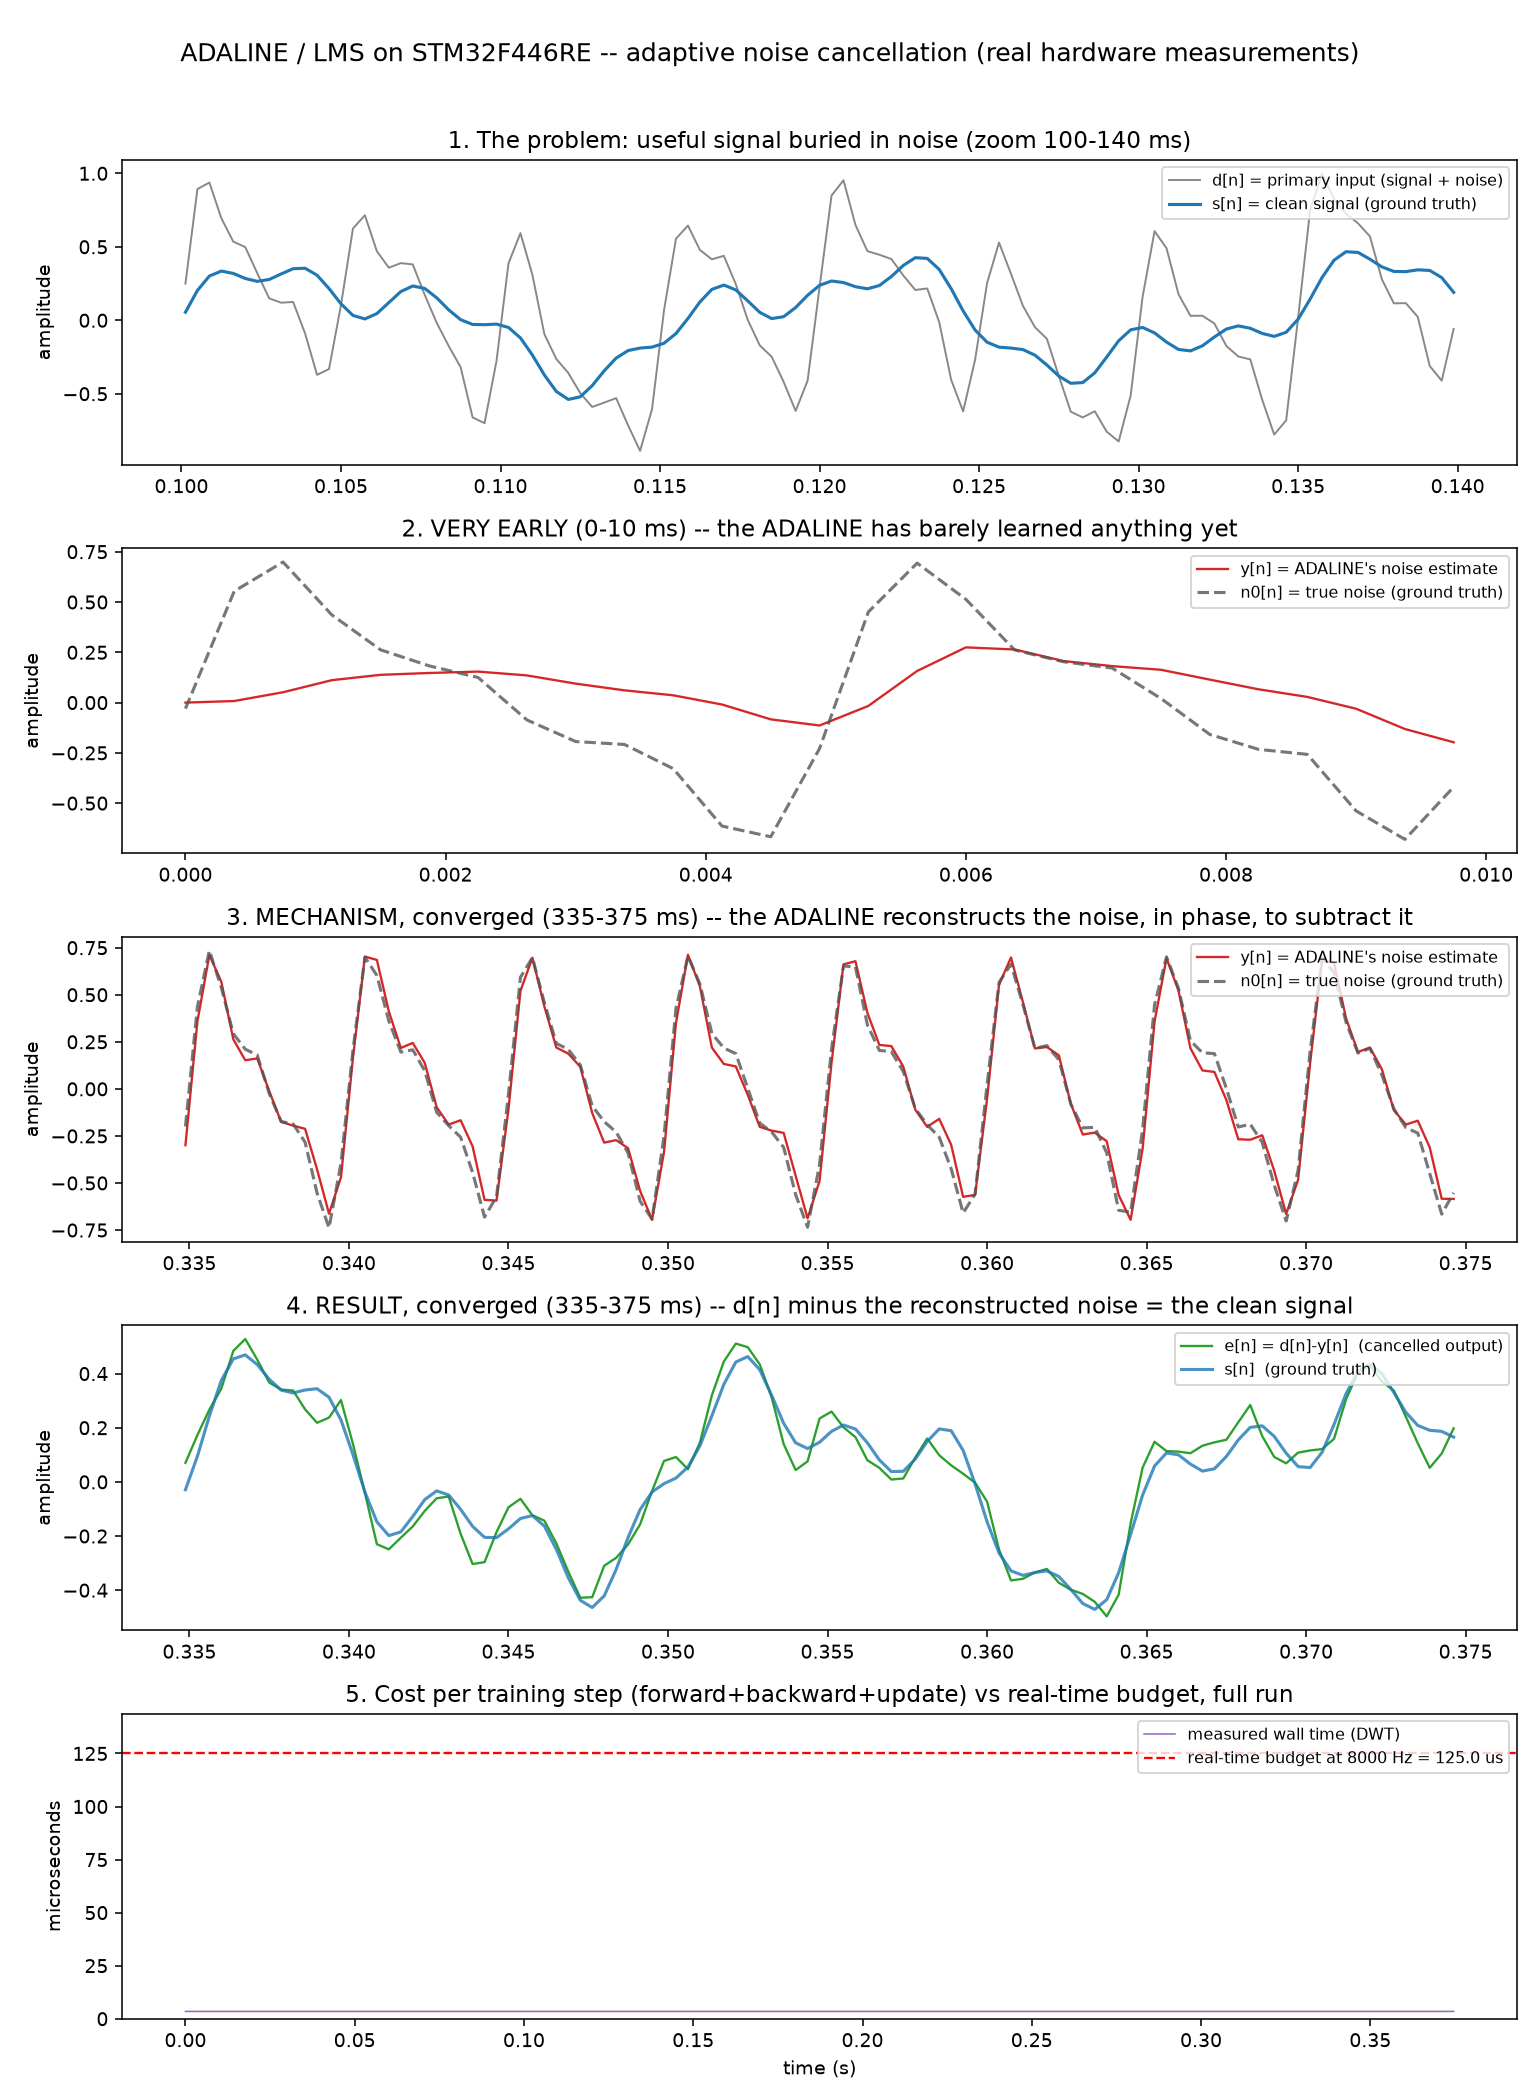
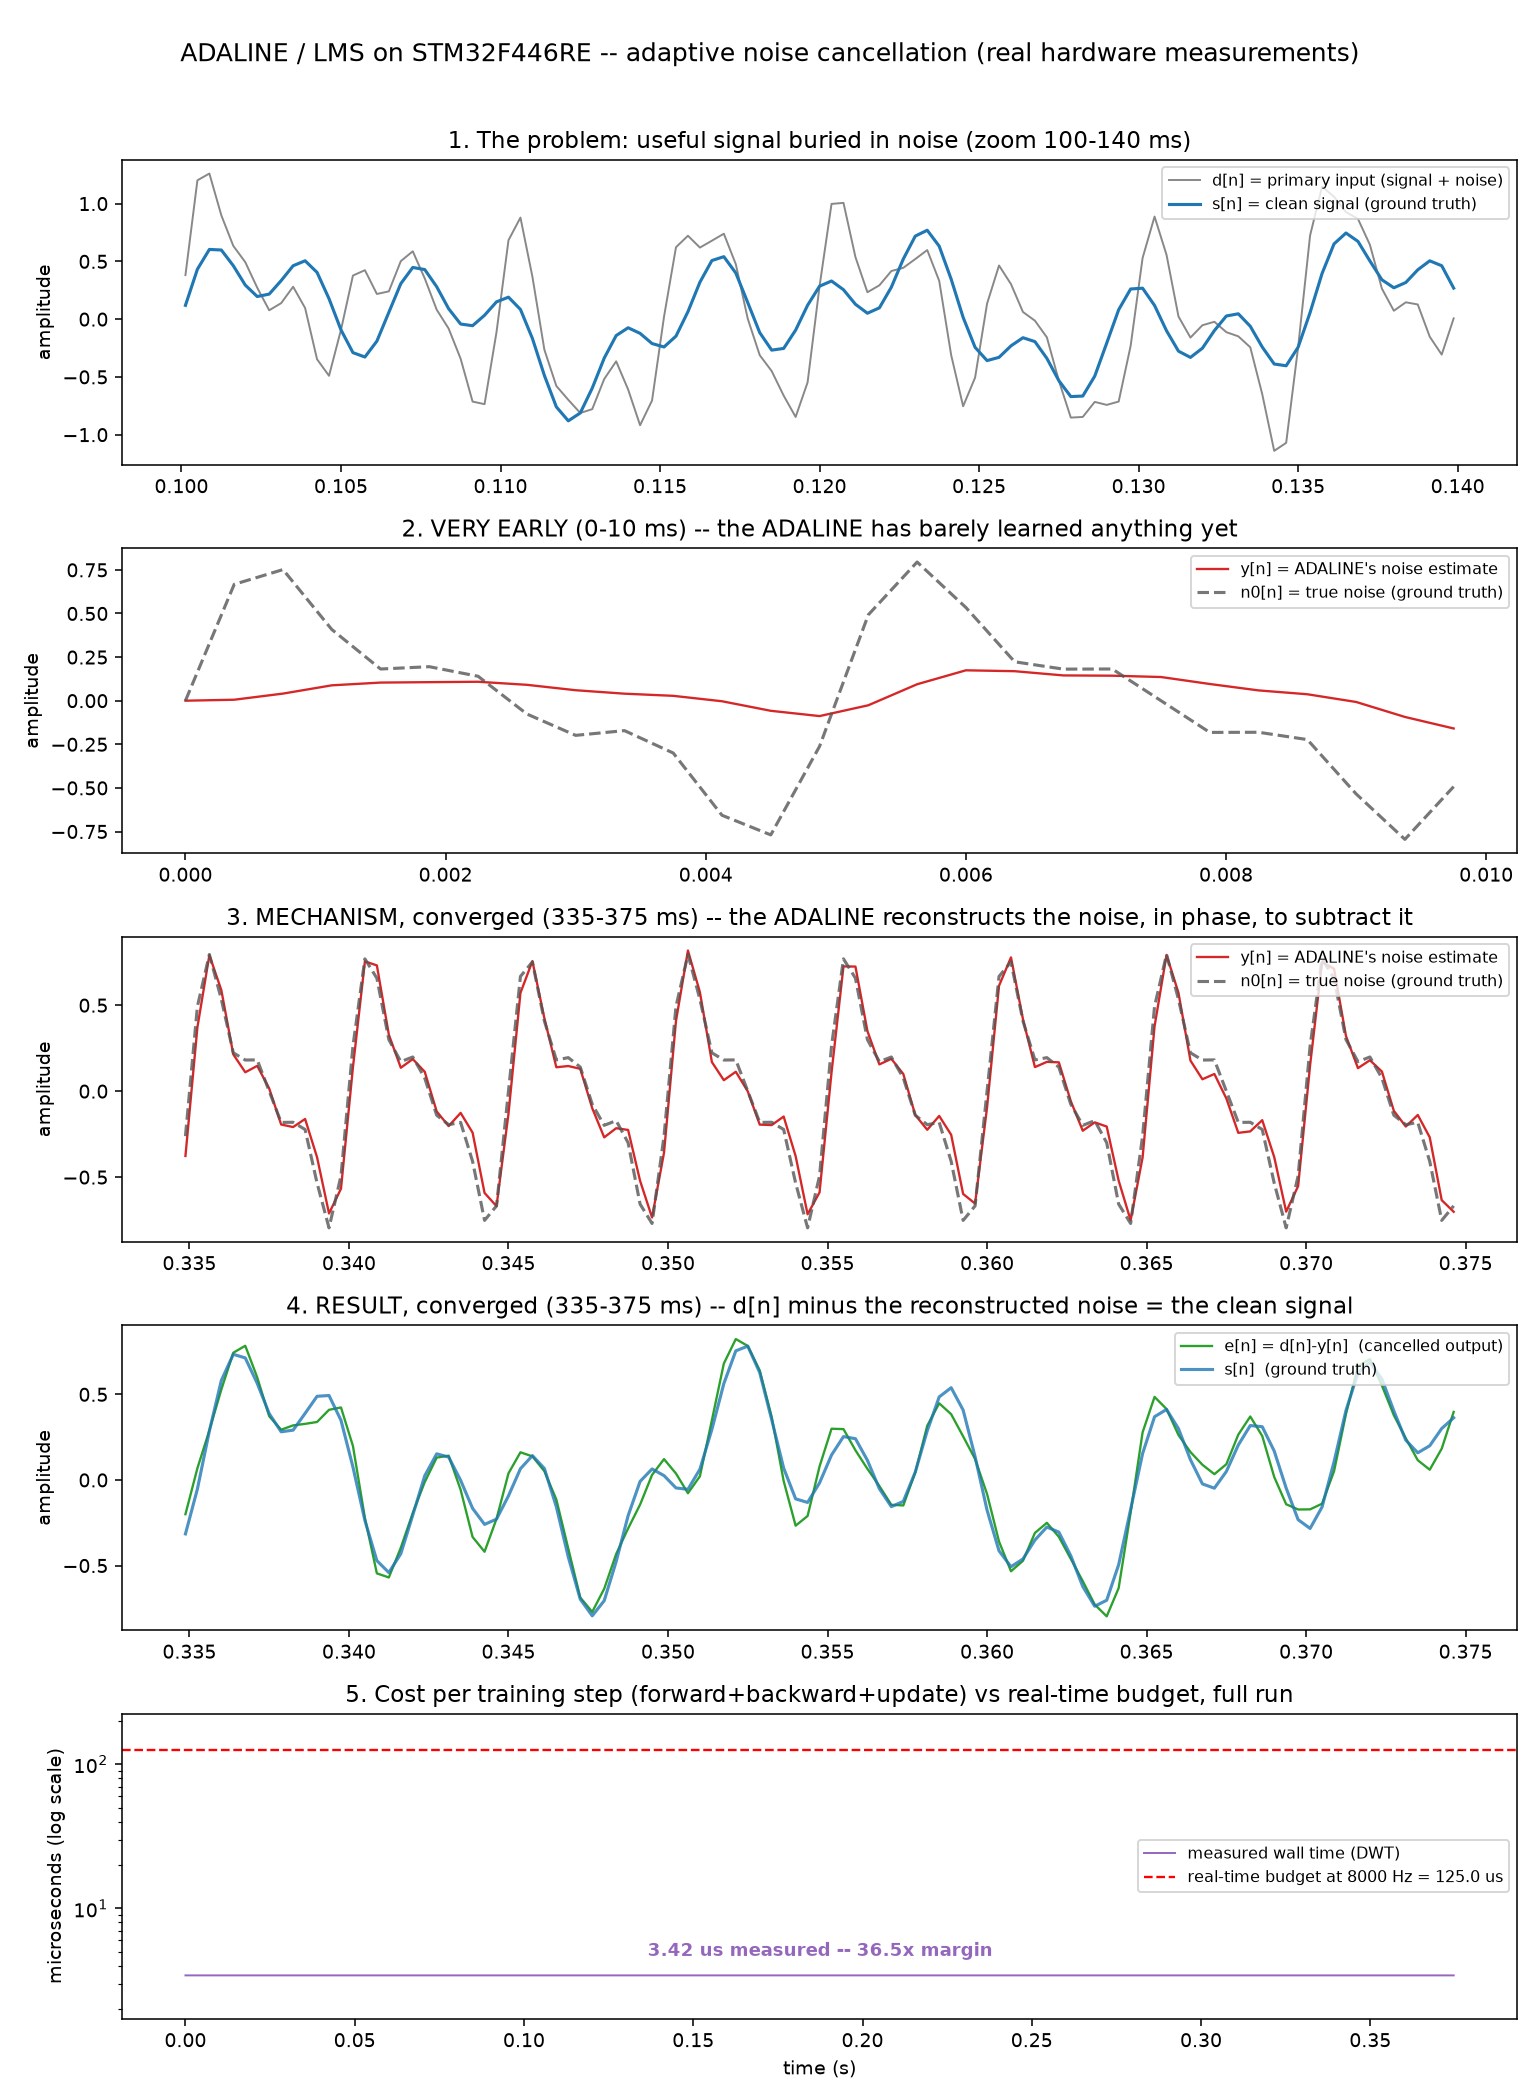
Fix panel 5 legibility, sync docs with the fresh ADALINE numbers
The measured-time line was nearly invisible against the 125us budget
line on a linear axis. Log scale plus a direct annotation on the line
makes the margin readable at a glance. README/BENCHMARKS numbers now
match the re-run log committed in the previous commit (575 cycles/3.42us
vs the old 578/3.44, margin 36.5x vs 36.3x, corr 0.549->0.986 vs the old
0.598->0.990 -- same story, different run).

diff --git a/benches/scripts/plot_adaline_anc.py b/benches/scripts/plot_adaline_anc.py
@@ -85,13 +85,26 @@ ax.legend(loc="upper right", fontsize=8)
 ax = axes[4]
 cycles_us = cycles / 168.0
 budget_us = 1e6 / FS
-ax.plot(t, cycles_us, color="#9467bd", linewidth=0.8, label="measured wall time (DWT)")
+mean_us = cycles_us.mean()
+margin = budget_us / mean_us
+ax.plot(t, cycles_us, color="#9467bd", linewidth=1.0, label="measured wall time (DWT)")
 ax.axhline(budget_us, color="red", linestyle="--", linewidth=1.2, label=f"real-time budget at {FS:.0f} Hz = {budget_us:.1f} us")
+ax.annotate(
+    f"{mean_us:.2f} us measured -- {margin:.1f}x margin",
+    xy=(t[len(t) // 2], mean_us),
+    xytext=(0, 10),
+    textcoords="offset points",
+    ha="center",
+    color="#9467bd",
+    fontsize=9,
+    fontweight="bold",
+)
 ax.set_title("5. Cost per training step (forward+backward+update) vs real-time budget, full run")
 ax.set_xlabel("time (s)")
-ax.set_ylabel("microseconds")
-ax.legend(loc="upper right", fontsize=8)
-ax.set_ylim(0, budget_us * 1.15)
+ax.set_ylabel("microseconds (log scale)")
+ax.set_yscale("log")
+ax.legend(loc="center right", fontsize=8)
+ax.set_ylim(mean_us * 0.5, budget_us * 1.8)
 
 fig.suptitle("ADALINE / LMS on STM32F446RE -- adaptive noise cancellation (real hardware measurements)", fontsize=13)
 fig.tight_layout(rect=[0, 0, 1, 0.97])

diff --git a/docs/BENCHMARKS.md b/docs/BENCHMARKS.md
@@ -31,7 +31,7 @@ cancellation setup.
   the mixed primary input.
 - Panel 2 vs 3: the ADALINE's noise estimate `y[n]` against the true
   noise `n0[n]`, very early (barely trained) vs converged: correlation
-  goes from 0.598 to 0.990.
+  goes from 0.549 to 0.986.
 - Panel 4: `e[n] = d[n] - y[n]` against the true clean signal, converged:
   this is the actual cancellation result.
 - Panel 5: cost per training step across the whole run, against the
@@ -41,11 +41,11 @@ cancellation setup.
 
 | | value |
 |---|---|
-| cost per `forward`+`backward`+`update` | 578 cycles ≈ 3.44 µs |
+| cost per `forward`+`backward`+`update` | 575 cycles ≈ 3.42 µs |
 | real-time budget at 8 kHz | 125 µs |
-| margin | 36.3× |
-| corr(y, n0), early → converged | 0.598 → 0.990 |
-| RMS \|e−s\|, early → converged | 0.351 → 0.059 |
+| margin | 36.5× |
+| corr(y, n0), early → converged | 0.549 → 0.986 |
+| RMS \|e−s\|, early → converged | 0.398 → 0.074 |
 
 A methodological note worth keeping, because it cost real debugging time:
 the first version of this benchmark used a single-frequency sine wave for

diff --git a/README.md b/README.md
@@ -67,8 +67,8 @@ nothing at runtime, at the price of requiring every shape to be static.
   full methodology and raw logs):
   - A 16-tap adaptive linear filter (`Linear<16,1,16>`, no hidden layer,
     an ADALINE per [Widrow & Hoff, 1960][widrow60]) trained online, one
-    sample at a time: **3.44 µs per `forward`+`backward`+`update`**, a
-    **36.3×** margin against the real-time budget at an 8 kHz sample rate
+    sample at a time: **3.42 µs per `forward`+`backward`+`update`**, a
+    **36.5×** margin against the real-time budget at an 8 kHz sample rate
     (bounds-checked indexing; see `docs/BENCHMARKS.md` for the unchecked-
     indexing variant, ~8% faster end to end, on a separate branch pending merge).
   - A `64 → 40 → 10` classifier, trained for 300 epochs entirely on-device:
